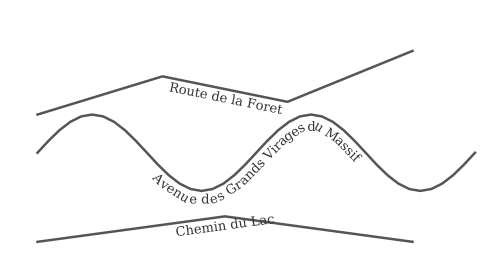
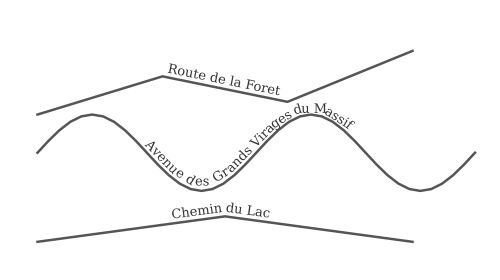
docs: line labels above the line (negative PerpendicularOffset); note sharp-vertex limitation
Negative PerpendicularOffset puts the label above the line to match QGIS (positive
sits below). Document that followLine tracks smooth curvature only: at a sharp
polyline vertex GeoServer straightens the label onto a run or drops it (QGIS kinks;
smooth the geometry for a sharp corner).

diff --git a/skills/qgis-to-geoserver/SKILL.md b/skills/qgis-to-geoserver/SKILL.md
@@ -91,7 +91,7 @@ Locate the element named in the error line with `grep -n` on that one file, neve
 - A label on an array column (Postgres `text[]`): GeoServer renders a single-element array as text but a multi-element one as `[Ljava.lang.String@...]`, and wrapping it in any string function (`strToLowerCase`, ...) makes every feature junk. No error is raised and step 5 passes, so it is only visible in the image. This GeoServer has no `array_to_string`, `item()` or `col[1]` in SLD or CQL. Join the array into a scalar first, then label that column: publish a SQL view with `array_to_string(col, ', ') AS label`, or add a generated column `label text GENERATED ALWAYS AS (join_fn(col)) STORED` where `join_fn` is an IMMUTABLE wrapper over `array_to_string` (the stock function is only STABLE, which a generated column rejects). Only needed where `max(cardinality(col)) > 1`; a column that is always single-element renders fine as a bare `PropertyName`.
 - A `PropertyName` that is not a column of the GeoServer layer (QGIS join field, virtual field): GeoServer stores the style but every GetMap fails; `gs_check_layer` reports it in step 5. Either drop the rule in QGIS or publish a SQL view that carries the field, then restyle.
 - `Rendering process failed ... Unknown font X`: the style parses but the GetMap fails because the font (a `font-family` or a `ttf://` marker, often the fontconfig alias `Sans`) is not installed in GeoServer's JVM. Fetch the server's fonts (`curl $GS_URL/rest/fonts.json`) and reconcile: `python3 -I fix-sld-functions.py --available "<comma list from /rest/fonts>" /tmp/sld/*.sld` reports the missing ones. Then either install the real font (vanilla: data dir; Cloud 3.0.2: mount at `/opt/additional_fonts`), ask the user which installed font to use, or fall back with `--font-fallback SansSerif` (a Java logical font, always present; not `Arial`, which Linux containers lack).
-- Line labels look poor (sit on the line, do not follow bends): QGIS exports a `LinePlacement` with `followLine=true` but `maxAngleDelta=25` and no offset, so GeoServer centres the label on the line and keeps it straight through vertices. In the line `TextSymbolizer`, add `<se:PerpendicularOffset>N</se:PerpendicularOffset>` inside `<se:LinePlacement>` to lift it off the line (about half the font size), raise `<se:VendorOption name="maxAngleDelta">` to ~90 so it follows real bends, and add `<se:VendorOption name="repeat">250</se:VendorOption>` and `<se:VendorOption name="group">yes</se:VendorOption>` so long or multi-segment lines get one repeating label. Verified: on a curved line the label then lifts off and follows the curve through its vertices.
+- Line labels look poor (sit on the line, do not follow bends): QGIS exports a `LinePlacement` with `followLine=true` but `maxAngleDelta=25` and no offset, so GeoServer centres the label on the line and keeps it straight. In the line `TextSymbolizer`: add `<se:PerpendicularOffset>-N</se:PerpendicularOffset>` inside `<se:LinePlacement>` to lift it off the line (about half the font size); use a NEGATIVE value to sit above the line as QGIS does (positive puts it below). Raise `<se:VendorOption name="maxAngleDelta">` to ~90 so it follows real bends, and add `<se:VendorOption name="repeat">250</se:VendorOption>` and `<se:VendorOption name="group">yes</se:VendorOption>` for long or multi-segment lines. Verified: on a smooth curve the label then lifts off and follows the curve. Limitation: `followLine` tracks smooth curvature only; at a SHARP polyline vertex it will not kink the text, it places the label on a straight run or (if it cannot) drops it. QGIS can kink at a vertex, GeoServer cannot. For a sharp corner that must be labelled, densify or smooth the geometry so the corner becomes an arc.
 - Markers all the same size when QGIS varied them: QGIS exports data-defined size as a static `<se:Size>` (the base size), keeping only the rotation as an expression. No error, step 5 passes, visible only in the render. Re-inject the size as an expression in the `Graphic`: `<se:Size><ogc:Mul><ogc:PropertyName>field</ogc:PropertyName><ogc:Literal>3.78</ogc:Literal></ogc:Mul></se:Size>` (3.78 = mm to px at 96 DPI; use 3.57 for GeoServer's 90.7 DPI default). Or set the symbol size unit to pixels in QGIS before export.
 
 ## 5. Check each layer with text, one layer per call

diff --git a/docs/qgis-vs-geoserver-styling.md b/docs/qgis-vs-geoserver-styling.md
@@ -57,7 +57,7 @@ Markers rotated by a field (wind arrows): orientations reproduce; markers render
 
 Curved label along a line: the text follows the line on both; by default GeoServer centres it on the line while QGIS offsets it above.
 
-As exported, the default looks poor: the label sits on the line and QGIS writes `maxAngleDelta=25`, too low to follow a real bend. Adding the GeoServer line-label vendor options (see the skill) lifts it off the line and follows the curve through its vertices:
+As exported, the default looks poor: the label sits on the line and QGIS writes `maxAngleDelta=25`, too low to follow a real bend. Adding the GeoServer line-label vendor options (see the skill) lifts it off the line and follows the curve. Use a NEGATIVE `PerpendicularOffset` so the label sits above the line as in QGIS (positive puts it below). One limitation: `followLine` tracks smooth curvature only; at a sharp polyline vertex GeoServer will not kink the text, it straightens it onto a run or drops it (smooth the geometry if a sharp corner must be labelled).
 
 | QGIS | GeoServer (with line-label vendor options) |
 | --- | --- |
